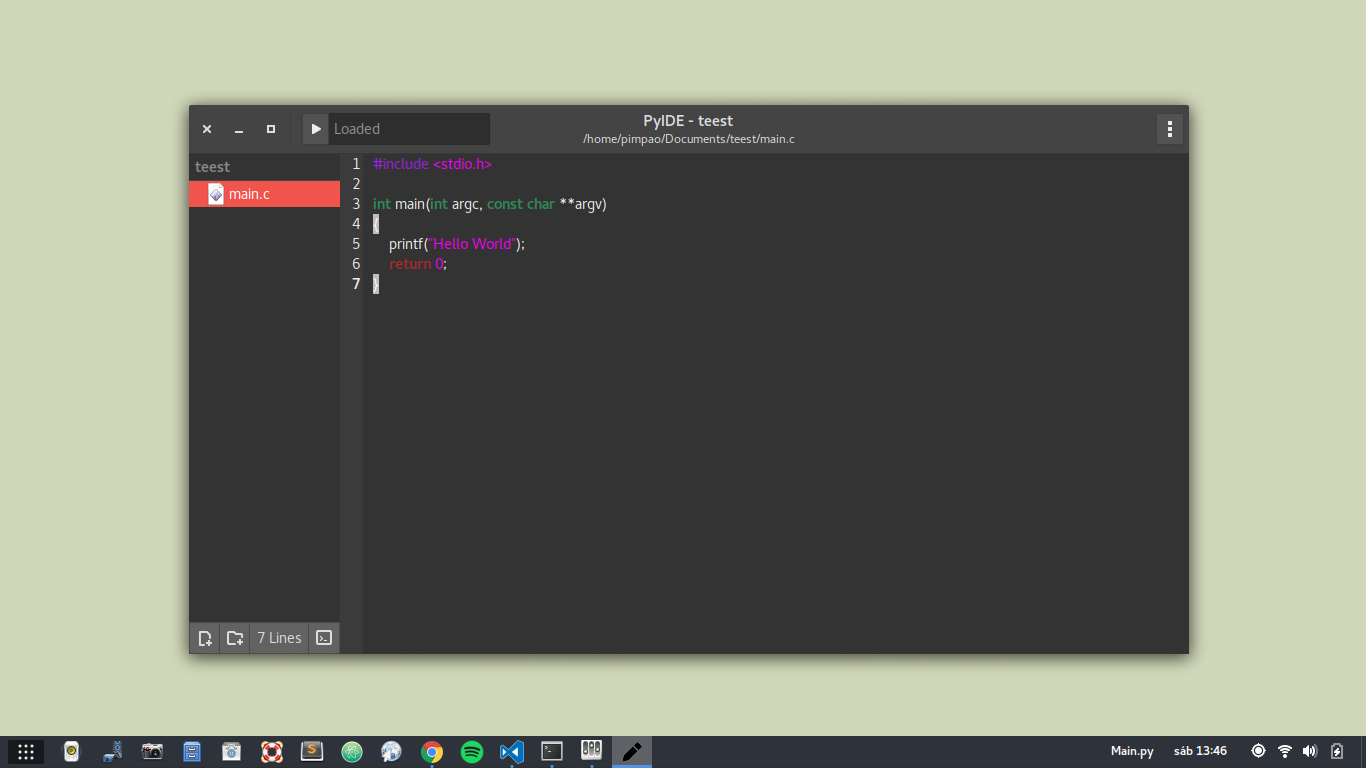
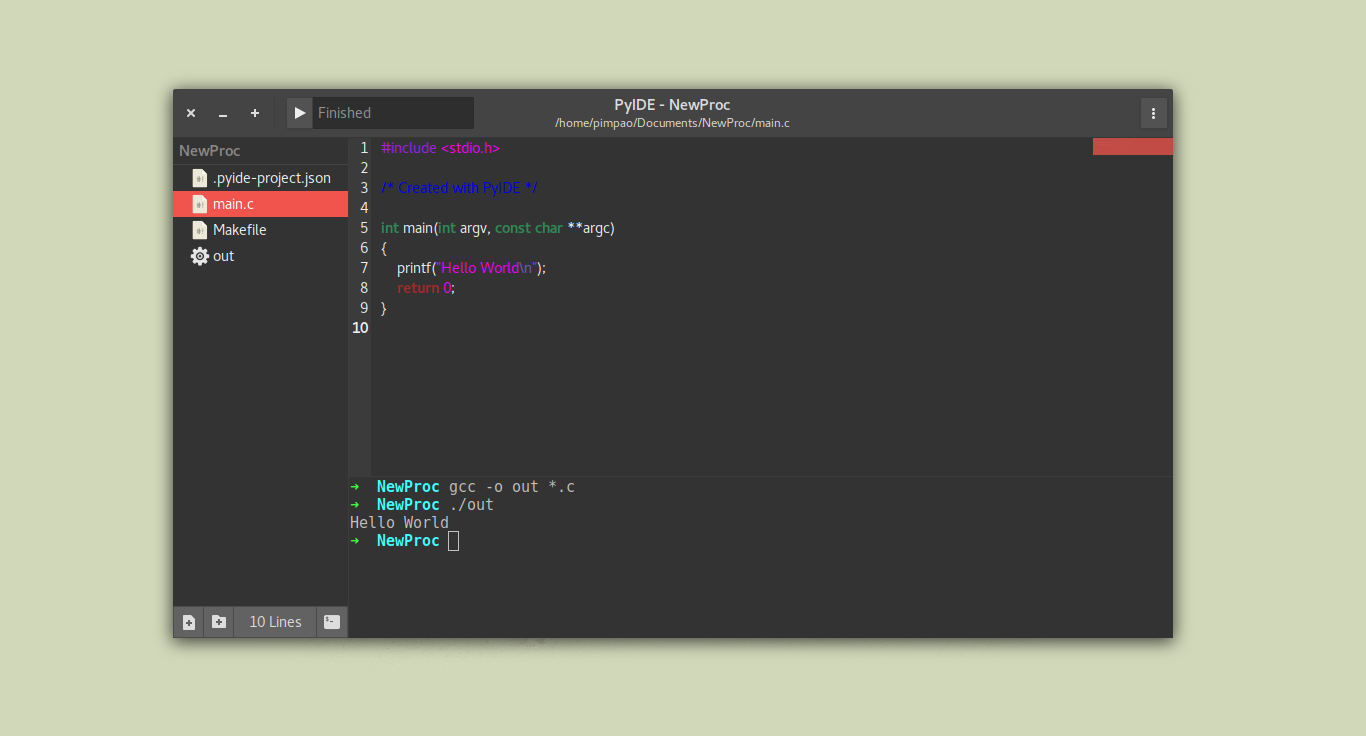
Updated README

diff --git a/README.md b/README.md
@@ -55,16 +55,16 @@ There is a long way ahead with so many features to add, check out some of them.
 ## Recent Updates
 
 * Started working on Markdown preview
-* Layout changes
-* Settings button
-* File details
+* Redesigned Welcome Window
 * New build/run/compile system
+* Minimap
+* Compiling and project creation
 * Bug fixes
-* Confirm on exit
 
 ## Known Issues
 
-* Create a project doesn't work
+* ~~Create a project doesn't work~~
+* Compile doesn't work for old projects
 * Create new file and create new folder buttons don't work
 * ~~No confirm exit even with unsaved modified files~~
 * Can't open files inside folders
@@ -76,4 +76,8 @@ There is a long way ahead with so many features to add, check out some of them.
 
 __What theme is that?__
 
-That is Arc Flatabulous, best theme ever (yes it has a dark version).
+Tha is Numix Gtk.
+
+__For older versions__
+
+That was Arc Flatabulous.
